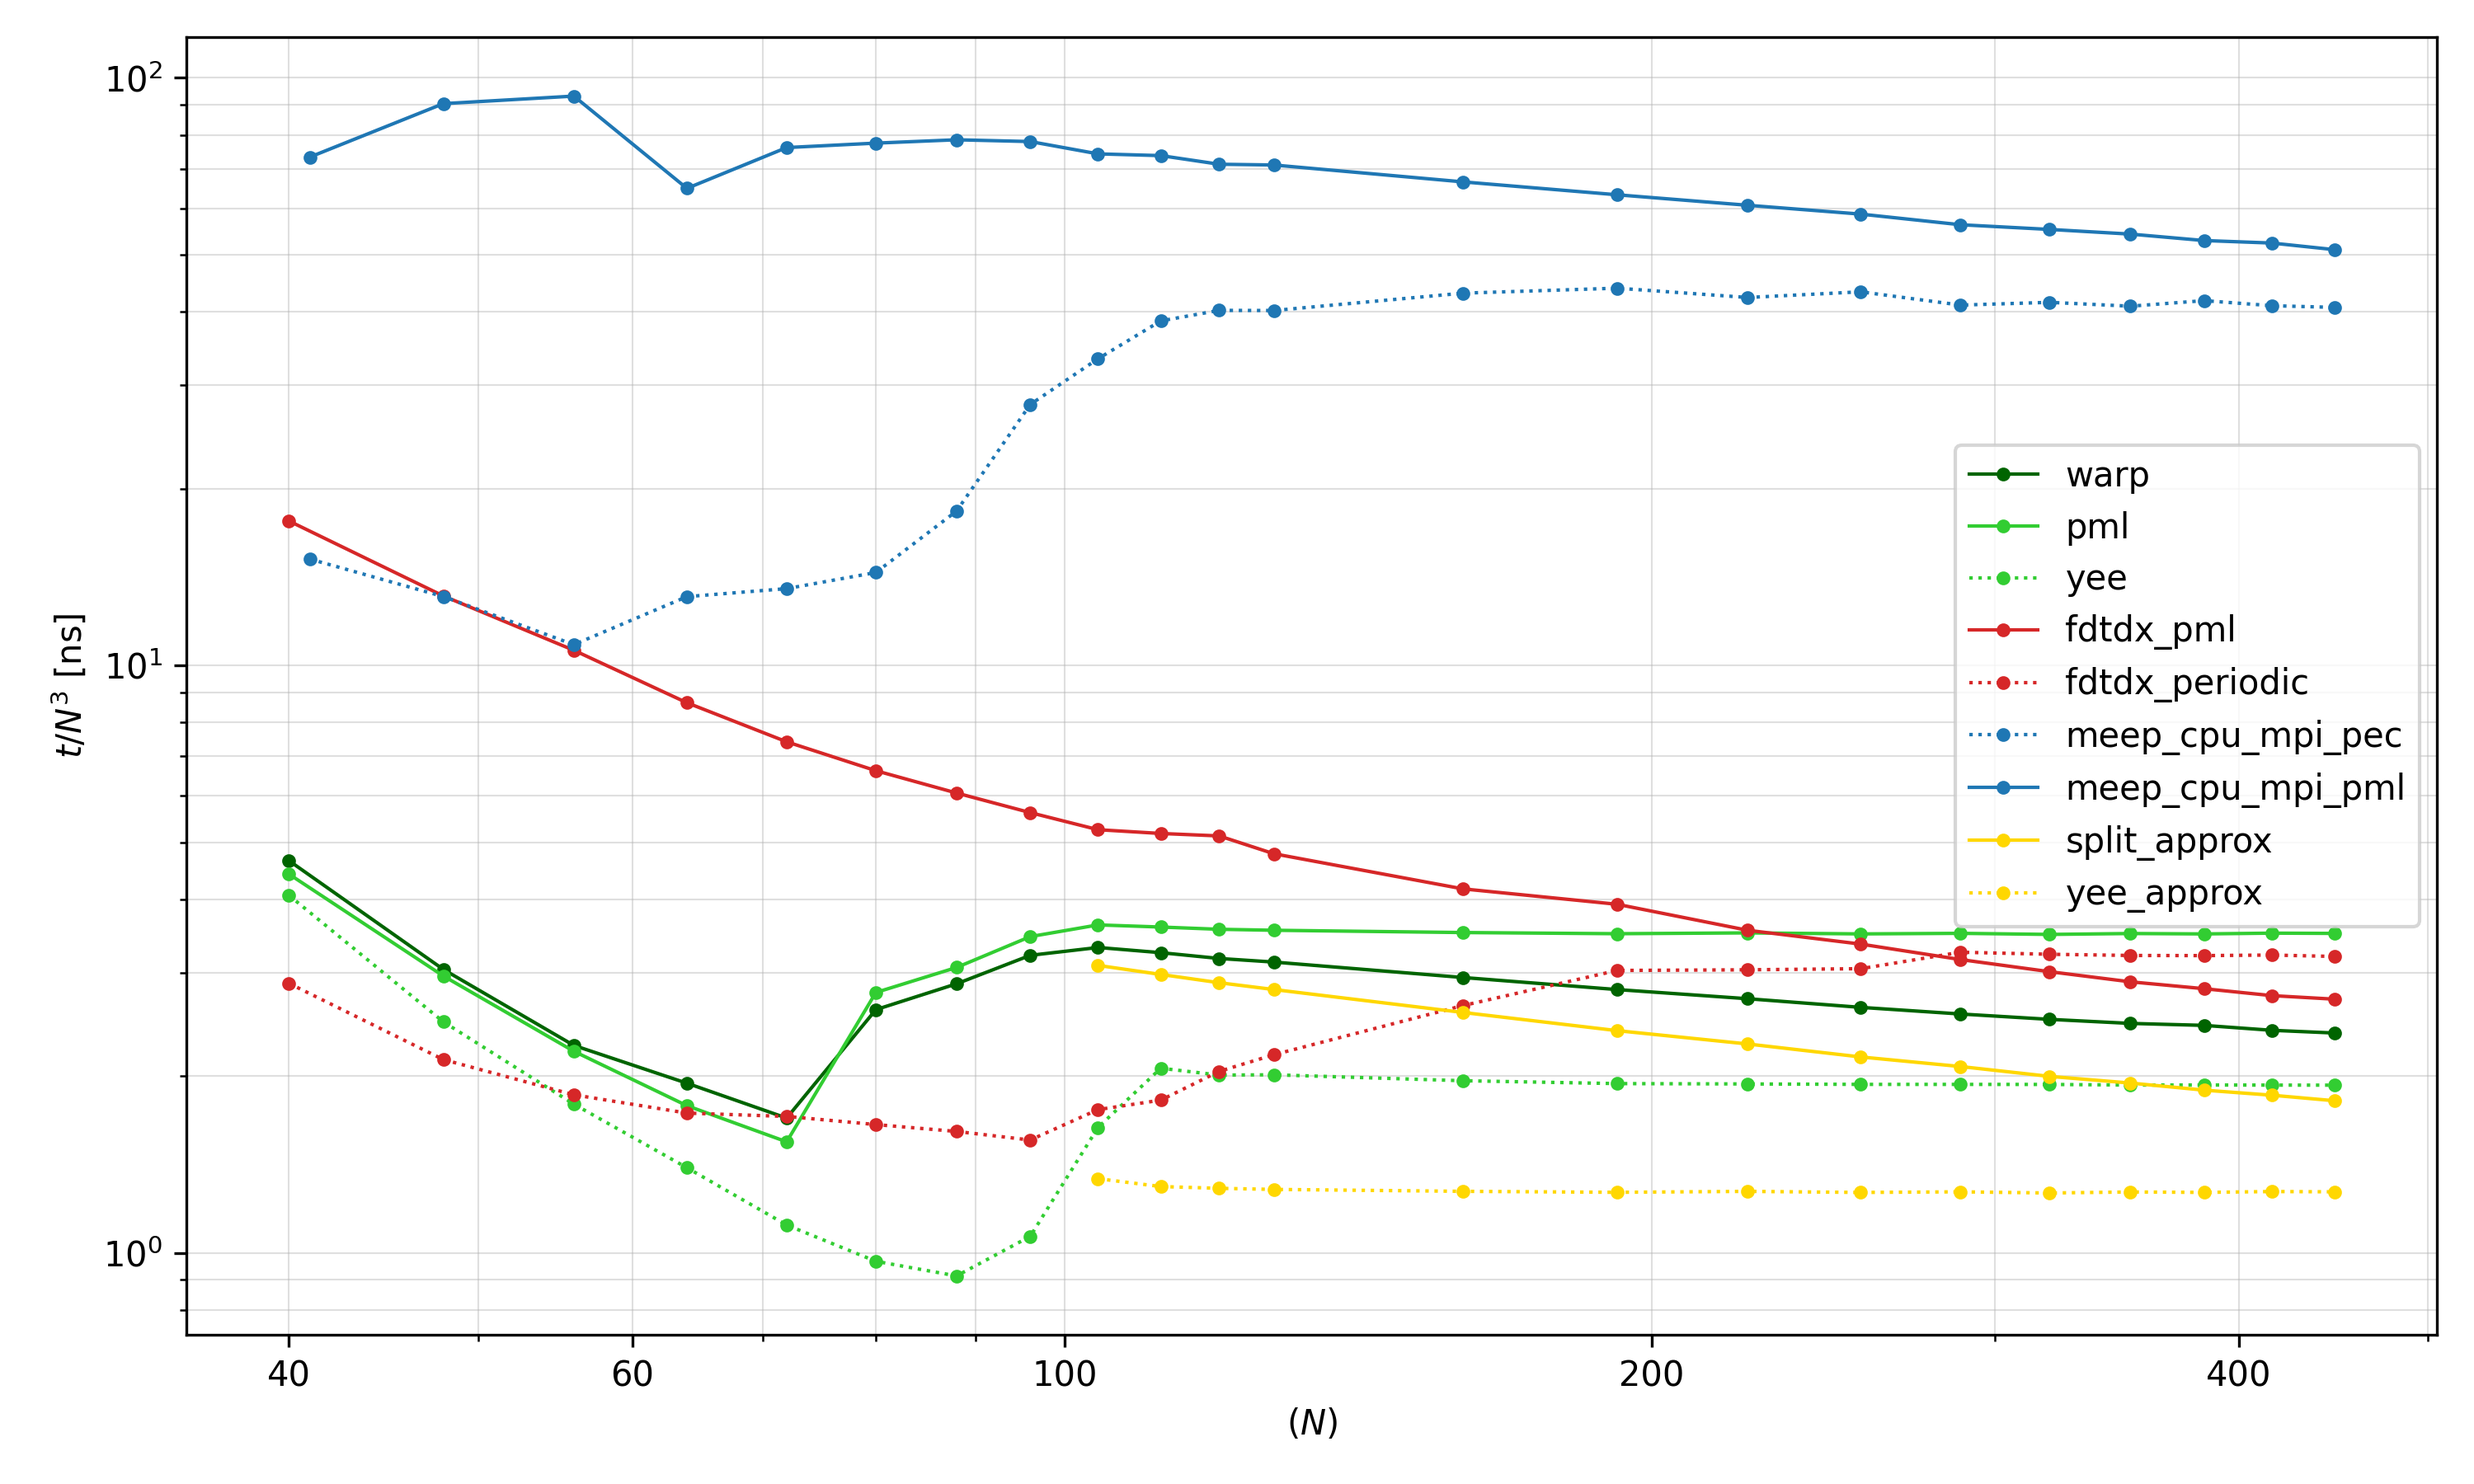
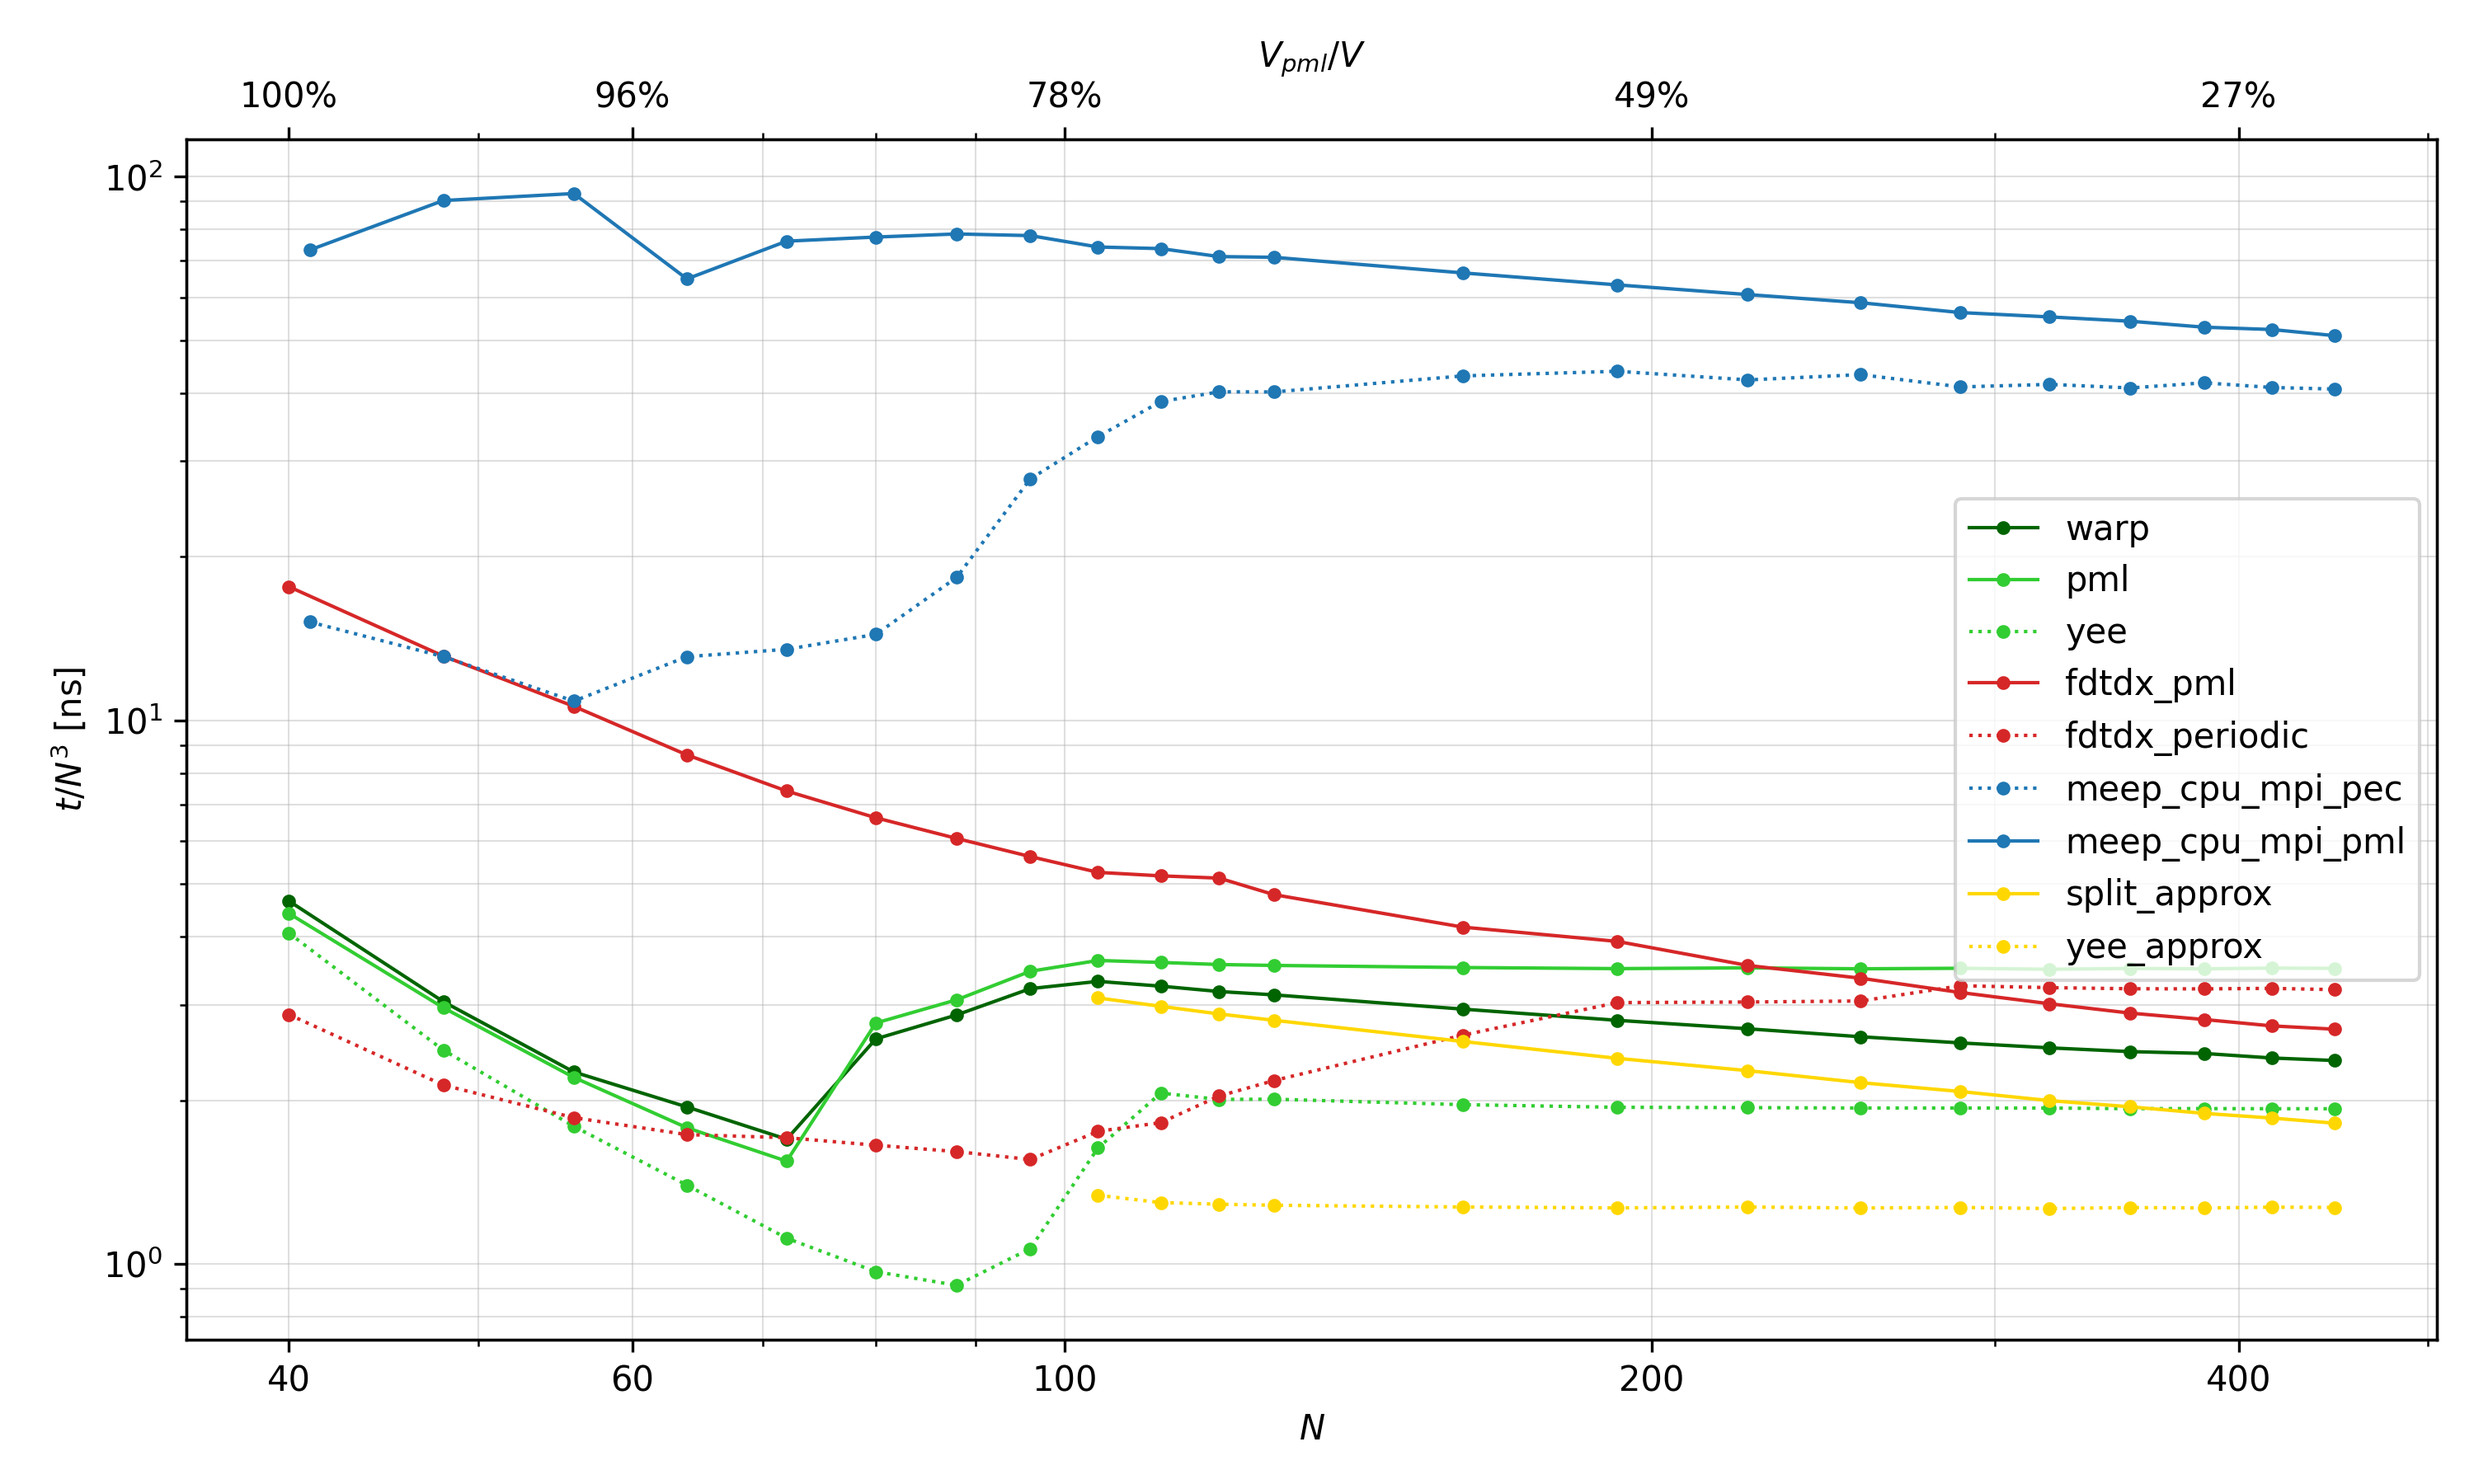
plot

diff --git a/examples/benchmark/plot.py b/examples/benchmark/plot.py
@@ -1,6 +1,8 @@
 import matplotlib.pyplot as plt
 import sys
+import numpy as np
 from matplotlib.ticker import ScalarFormatter
+
 def plot_benchmark(filename="results.csv"):
     data = {}
 
@@ -24,7 +26,7 @@ def plot_benchmark(filename="results.csv"):
         print(f"File {filename} not found.")
         return
 
-    plt.figure(figsize=(10, 6))
+    fig, ax1 = plt.subplots(figsize=(10, 6))
     
     timesteps = 2000
 
@@ -50,7 +52,7 @@ def plot_benchmark(filename="results.csv"):
         else:
             current_color = 'limegreen'
 
-        plt.plot(
+        ax1.plot(
             N_list, 
             norm_time_list, 
             linestyle=current_linestyle, 
@@ -61,20 +63,35 @@ def plot_benchmark(filename="results.csv"):
             linewidth=1.0   
         )
 
-    plt.yscale('log')
-    plt.xscale('log')
-    plt.xlabel("($N$)")
-    plt.ylabel(r"$t / N^3 $ [ns]")
-    plt.legend()
+    ax1.set_yscale('log')
+    ax1.set_xscale('log')
+    ax1.set_xlabel("$N$")
+    ax1.set_ylabel(r"$t / N^3 $ [ns]")
+    
     custom_ticks = [40, 60, 100, 200, 400]
+    ax1.set_xticks(custom_ticks)
+    ax1.set_xticklabels([str(t) for t in custom_ticks])
+    ax1.xaxis.set_major_formatter(ScalarFormatter())   
     
-    plt.xticks(custom_ticks, [str(t) for t in custom_ticks])
+    ax2 = ax1.twiny()     
+    ax2.set_xscale('log')
+    ax2.set_xlim(ax1.get_xlim())
     
-    # plt.minorticks_off() 
+    ax2.set_xticks(custom_ticks)
+    
+    def calculate_pml_frac(n):
+        thickness = 20
+        if n <= 2 * thickness:
+            return 1.0 
+        return 1.0 - ((n-40)**3 / n**3)
 
-    # 4. Remove the "10^2" scientific notation offset if it appears
-    plt.gca().xaxis.set_major_formatter(ScalarFormatter())   
-    plt.grid(True, which="both", ls="-", alpha=0.4, linewidth=0.5)
+    tick_labels = [f"{calculate_pml_frac(n)*100:.0f}%" for n in custom_ticks]
+    ax2.set_xticklabels(tick_labels)
+    
+    ax2.set_xlabel(r"$V_{pml}/V$")
+    
+    ax1.legend()
+    ax1.grid(True, which="both", ls="-", alpha=0.4, linewidth=0.5)
     plt.tight_layout()
     
     output_file = "benchmark.png"
